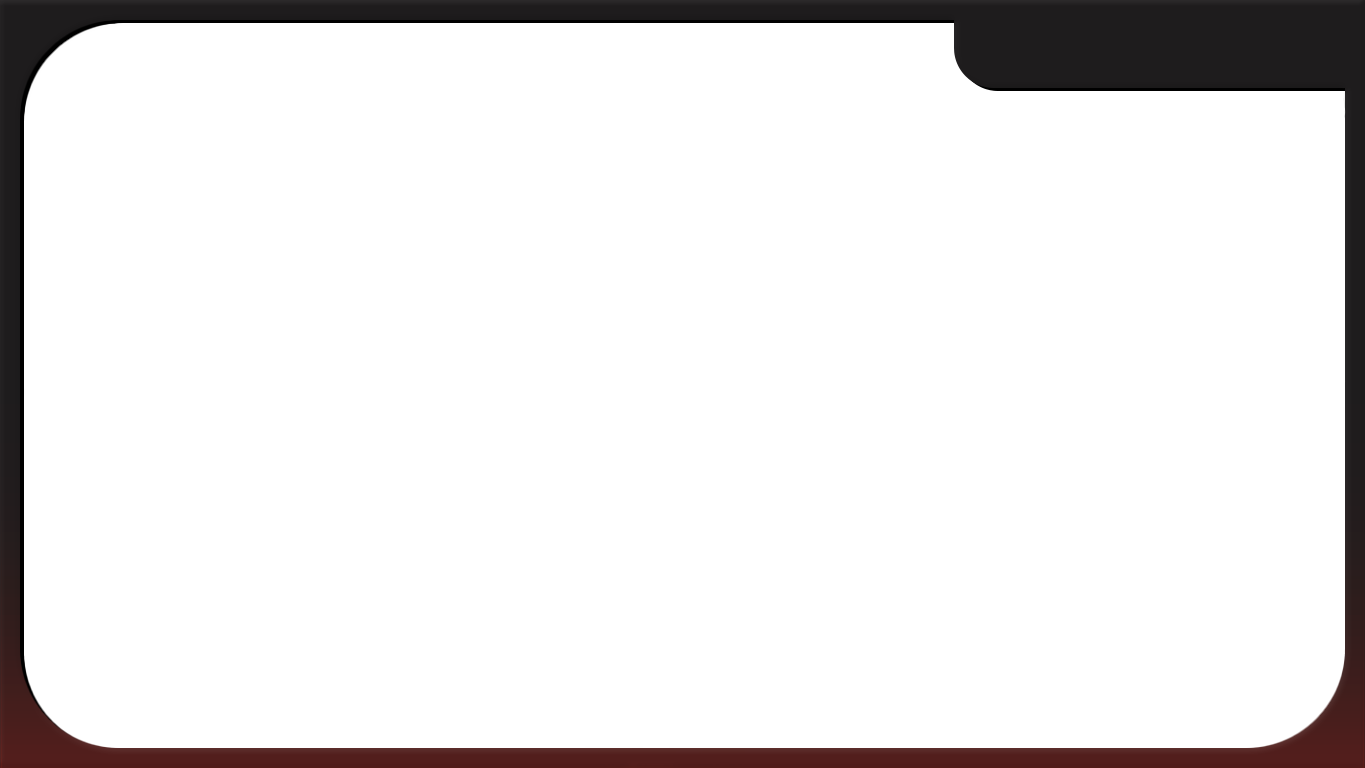
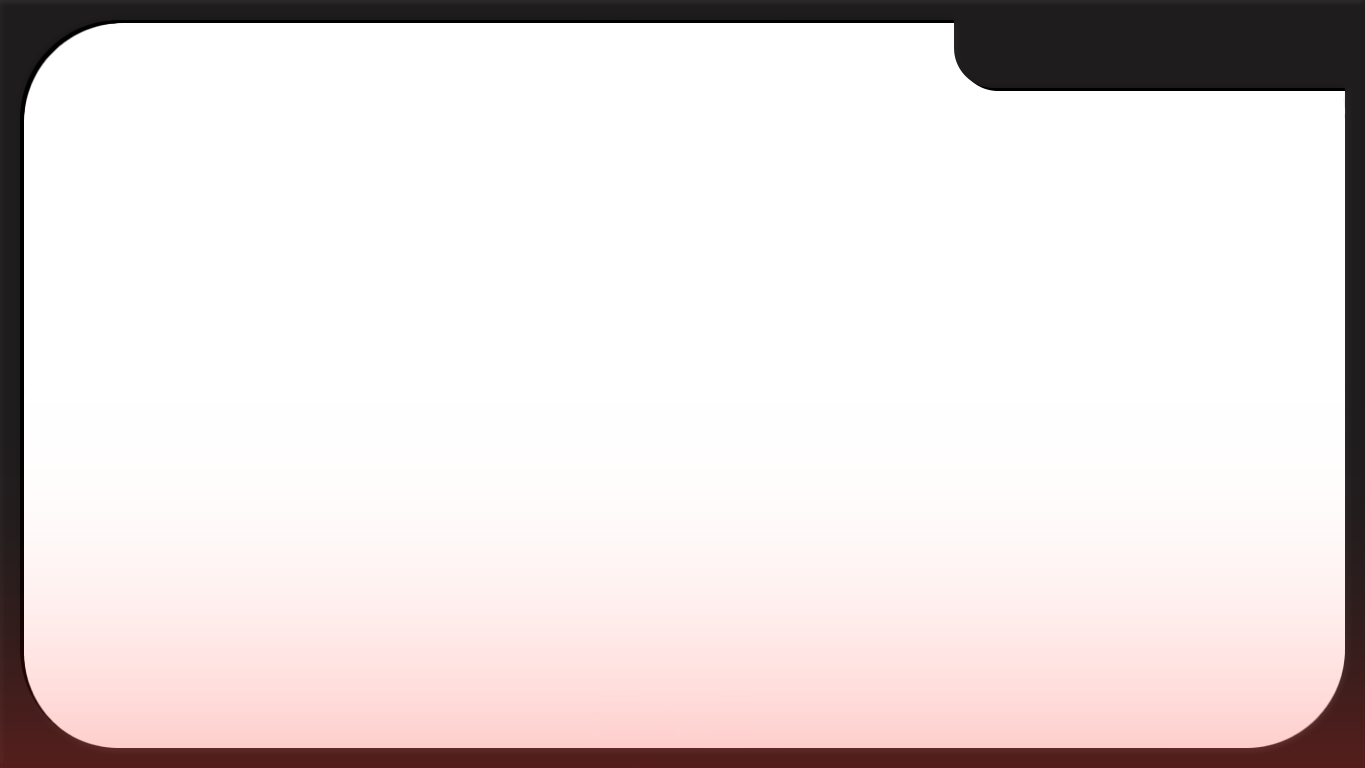
다시보기 썸네일 생성기의 제갈금자 템플릿 프레임 교체

Changed region(s): [[0.0, 0.8125, 0.9846, 1.0]]

diff --git a/src/routes/tools/soopthumbnail/dlsn9911.tsx b/src/routes/tools/soopthumbnail/dlsn9911.tsx
@@ -188,9 +188,9 @@ const TITLE_STYLES: Record<Dlsn9911TemplateType, TitleEffectStyle> = {
       blendMode: 'source-over',
       blur: 8,
       color: '#ccd400',
-      offsetX: 9,
-      offsetY: 8,
-      opacity: 0.85,
+      offsetX: 6,
+      offsetY: 6,
+      opacity: 0.6,
     },
     outerStrokeWidth: 8,
     scaleX: 1.1,
@@ -540,14 +540,6 @@ const drawDlsn9911Template = (
     scaleY: titleStyle.scaleY,
   } satisfies PsdTextRunStyle;
 
-  titleTextRuns.forEach(({ line, y }) => {
-    drawPsdTextRun(context, line, TITLE_BOX.x, y, titleTextStyle, 'shadows');
-  });
-
-  titleTextRuns.forEach(({ line, y }) => {
-    drawPsdTextRun(context, line, TITLE_BOX.x, y, titleTextStyle, 'foreground');
-  });
-
   context.drawImage(
     options.frameImage,
     0,
@@ -555,6 +547,14 @@ const drawDlsn9911Template = (
     CANVAS_SIZE.width,
     CANVAS_SIZE.height,
   );
+
+  titleTextRuns.forEach(({ line, y }) => {
+    drawPsdTextRun(context, line, TITLE_BOX.x, y, titleTextStyle, 'shadows');
+  });
+
+  titleTextRuns.forEach(({ line, y }) => {
+    drawPsdTextRun(context, line, TITLE_BOX.x, y, titleTextStyle, 'foreground');
+  });
 
   const dateFontSize = fitDateFontSize(context, options.dateText);
   drawPsdTextRun(context, options.dateText, DATE_TEXT.x, DATE_TEXT.baseline, {
